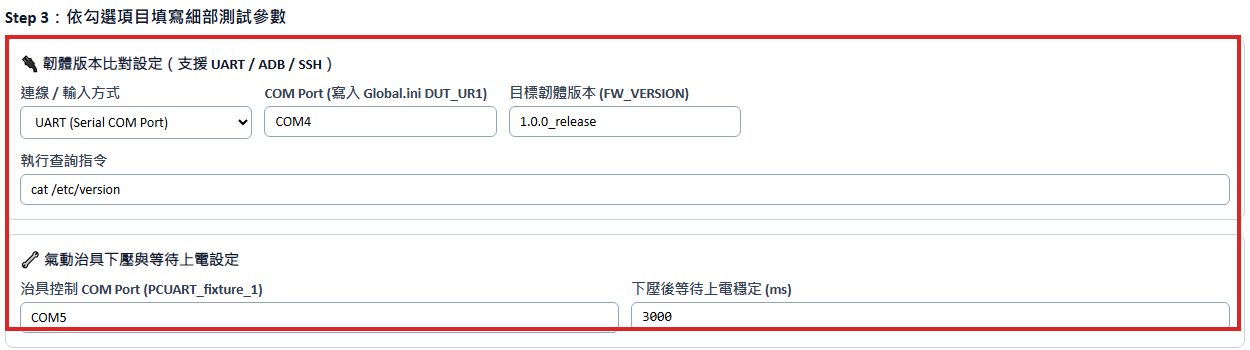
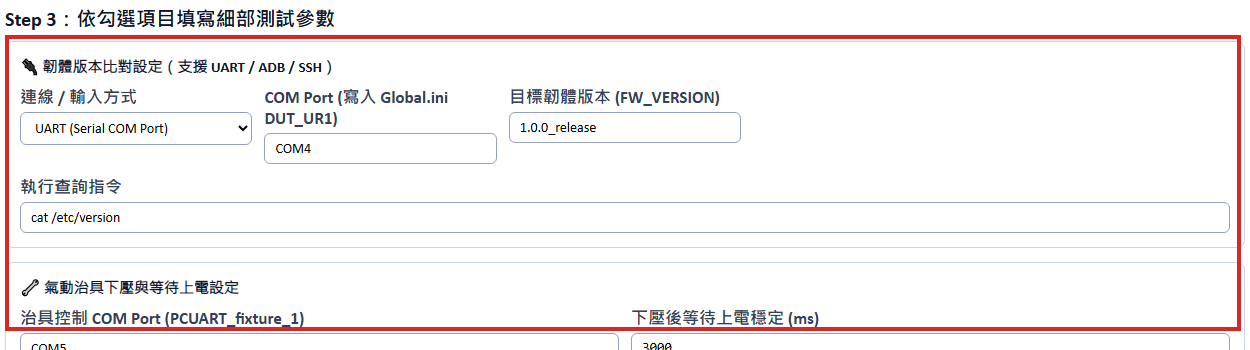
UI: global font scaling, distinct rose-coral theme for Settings card, and 18 single-focus tutorial screenshots

diff --git a/centimani_studio/web/js/flow_guide.js b/centimani_studio/web/js/flow_guide.js
@@ -1,4 +1,4 @@
-// Flow Guide (Scrollable Detailed Tutorial + Flowchart) & System Settings Manager
+// Flow Guide (Scrollable Detailed Tutorial + Single-Focus Red-Box Screenshots) & System Settings Manager
 let APP_SETTINGS = {
   auto_fullscreen: true,
   show_flow_guide: true,
@@ -25,40 +25,40 @@ const FLOW_GUIDE_DATA = {
     btnClass: 'btn-primary-blue',
     btnLabel: '開始使用：腳本健檢 ▶',
     steps: [
-      { num: '①', title: '選取檔案', items: ['單一 Excel 腳本', '或整包資料夾掃描'] },
-      { num: '②', title: '檢查與微調', items: ['看紅黃燈錯誤明細', '線上改站別/ISN/IP/COM'] },
-      { num: '③', title: '補儀器 / 跳轉', items: ['插 NI-6009 / Feasa / RF', '視覺化改 PASS/FAIL 跳轉'] },
-      { num: '④', title: '匯出與簽章', items: ['產出 *_FIXED.xlsx', '寫入 Global.ini 與 Checksum'] }
+      { num: '①', title: '選取單檔或整包', items: ['單一 Excel 體檢', '整包資料夾批次掃描'] },
+      { num: '②', title: '檢視紅黃燈報告', items: ['同類錯誤自動折疊', '自動對比實體 DLL'] },
+      { num: '③', title: '微調與補儀器', items: ['站別/ISN/IP/COM 微調', '插 NI-6009 / Feasa / RF'] },
+      { num: '④', title: '匯出與簽章', items: ['產出 *_FIXED.xlsx', '寫入 INI 與 Checksum'] }
     ],
     detailedSteps: [
       {
-        step: 'Step 1｜選擇「單一 Excel」或「整包專案資料夾」',
-        desc: '進入後點擊上方藍色「📂 選取單一 Excel」開啟既有腳本；若要檢查整個專案目錄內所有站別，可點「📁 掃描整包資料夾」（系統會自動排除 *_FIXED 與 old_ 備份）。',
-        mockup: '<div style="background:#F8FAFC;border:1px solid #CBD5E1;border-radius:6px;padding:8px 10px;font-size:12px;"><span style="background:#DBEAFE;color:#1E3A8A;padding:3px 8px;border-radius:4px;font-weight:700;">📂 選取單一 Excel</span> <span style="background:#E0F2FE;color:#0369A1;padding:3px 8px;border-radius:4px;font-weight:700;margin-left:4px;">📁 掃描整包資料夾</span><div style="margin-top:6px;color:#475569;">📍 目前檔案：<code>D:\\...\\TestFlow.xlsx</code></div></div>',
-        img: '/images/guide_audit_1.png'
+        step: 'Step 1｜「選取單一 Excel」：針對單份測試腳本進行體檢與微調',
+        desc: '適合您只想檢查或修改某一個站的 TestFlow Excel 時使用。點選後會跳出檔案視窗，自動解析 Properties、DUTs、Instrument、所有測試站與 Marco 子工作表，並於下方列出錯誤與警告明細。',
+        img: '/images/guide_audit_1a.png'
       },
       {
-        step: 'Step 2｜檢視體檢報告（紅燈錯誤 / 黃燈人工確認 / 綠燈正常）',
-        desc: '上方橫幅會顯示錯誤總數與目前讀取到的 ISN 條碼位數；下方依測試站分頁顯示健康度，同類型的大量錯誤（如 42 筆缺少 TestID）會自動折疊成單一條目方便檢視。',
-        mockup: '<div style="background:#FEF2F2;border:1px solid #EF4444;border-radius:6px;padding:8px 10px;font-size:12px;color:#7F1D1D;">🔴 檢查結果：抓出 <b>42 個錯誤</b>（同類錯誤已折疊，存檔時將自動補齊 7 碼 TestID）</div>',
+        step: 'Step 2｜「掃描整包資料夾」：一次體檢整個專案目錄內所有站別腳本',
+        desc: '當整個專案資料夾內包含多個站別的 Excel（例如 Download、MB、RF、OQC 分散在不同檔案）時使用。系統會自動遞迴掃描全資料夾、略過 *_FIXED 與 old_ 備份檔，一次列出全專案錯誤總表，並支援「一鍵整包批次修復」（同時自動備份原 System.ini / Global.ini）。',
+        img: '/images/guide_audit_1b.png'
+      },
+      {
+        step: 'Step 3｜檢視紅黃燈體檢報告與折疊明細',
+        desc: '上方橫幅會顯示錯誤總數、需人工確認數量，以及從 DUTs 讀取到的 ISN 條碼位數。若同一站出現多列相同錯誤（例如 42 列缺少第 16 欄 TestID），系統會自動折疊成單一條目，存檔時會一併自動補齊合法 7 碼代碼。',
         img: '/images/guide_audit_2.png'
       },
       {
-        step: 'Step 3｜線上語意微調（站別開關 / ISN 位數 / IP / COM Port）',
-        desc: '點擊「⚙ 微調 DUTs / Instrument / Global.ini」可切換站別啟用開關、批量修改 ISN 位數、調整 PC/DUT IP 與 Ping IP；若要改 UART COM Port 或將 UART 轉為 SSH，點「🔌 通訊設定」。',
-        mockup: '<div style="background:#FFFBEB;border:1px solid #F59E0B;border-radius:6px;padding:8px 10px;font-size:12px;">📋 站別開關 (🟢 啟用 / ⚪ 停用) ｜ 🔢 ISN 位數 [15] ｜ 🌐 網路 IP / Ping ｜ 🔌 儀器掛載</div>',
+        step: 'Step 4｜線上語意微調（站別開關 / ISN 位數 / 網路 IP / 儀器 Mount）',
+        desc: '點擊「⚙ 微調 DUTs / Instrument / Global.ini」即可展開任務導向設定區：支援直接開關測試站（🟢啟用/⚪停用）、一鍵批量修改所有站別 ISN 位數、修改 Ping 目標 IP 與本腳本實際用到的儀器掛載與 COM Port。',
         img: '/images/guide_audit_3.png'
       },
       {
-        step: 'Step 4｜插入儀器測項或調整 PASS/FAIL 跳轉',
-        desc: '需要補測項時點「➕ 插入儀器範本」，可直接快選 NI-6009（32-Pin 接線圖）、FeasaLED（光纖色域）、iPower、電表或 IQxel RF（自動補齊 21/22 步 Marco）；點「🔀 編輯跳轉」可用打勾方式設定 4:P,F 跳轉。',
-        mockup: '<div style="background:#F5F3FF;border:1px solid #8B5CF6;border-radius:6px;padding:8px 10px;font-size:12px;color:#5B21B6;">⚡ 快選：NI-6009 ｜ iPower ｜ 34401A ｜ FeasaLED ｜ IQxel RF（先看介紹頁 → 再進人機）</div>',
+        step: 'Step 5｜插入儀器範本與專屬互動人機（NI-6009 / FeasaLED / IQxel RF）',
+        desc: '點「➕ 插入儀器範本」可從常用快選鈕直接開啟 NI-6009（32-Pin 接線圖）、FeasaLED（光纖通道與色域）、iPower、電表或 IQxel RF（自動補齊 21/22 步 Marco），安全插在 Phase 97 之前並亮黃底標記。',
         img: '/images/guide_audit_4.png'
       },
       {
-        step: 'Step 5｜一鍵修好並匯出（或產出無硬體試跑版）',
-        desc: '確認待匯出異動清單無誤後，點擊「💾 一鍵修好並匯出 (*_FIXED.xlsx)」，系統會自動於原資料夾產出修復檔（異動儲存格亮黃底標記），並同步更新 Global.ini、System.ini 與 64 碼 Checksum。',
-        mockup: '<div style="background:#DCFCE7;border:1px solid #22C55E;border-radius:6px;padding:8px 10px;font-size:12px;color:#14532D;">✅ 已匯出 <code>*_FIXED.xlsx</code> ＋ 寫入 Checksum ＋ 覆檢 0 錯誤</div>',
+        step: 'Step 6｜一鍵修好並匯出 (*_FIXED.xlsx) 或產出「無硬體試跑版」',
+        desc: '確認無誤後，點擊綠色「💾 一鍵修好並匯出 (*_FIXED.xlsx)」會於原資料夾輸出修復後 Excel、寫入 Global.ini 與 64 碼 System.ini Checksum；若要在沒有儀器的辦公室電腦先跑通流程，可點「🧪 無硬體試跑版」自動略過儀器控制步驟。',
         img: '/images/guide_audit_5.png'
       }
     ],
@@ -79,27 +79,33 @@ const FLOW_GUIDE_DATA = {
     ],
     detailedSteps: [
       {
-        step: 'Step 1｜基本資料、ISN 條碼與 SFIS / iPLAS 廠區設定',
-        desc: '填入專案名稱、站別（如 MB / RF）、多工槽位數（1/2/4）與 ISN 碼數規則；若有廠區過站需求，點「🌐 設定 SFIS / iPLAS 開關與廠區 IP」直接從下拉選單選廠區。',
-        mockup: '<div style="background:#F0FDF4;border:1px solid #86EFAC;border-radius:6px;padding:8px 10px;font-size:12px;">專案：<code>PEGA_NEW</code> ｜ 站別：<code>MB</code> ｜ ISN：<code>{ISN,15,[0-9A-Z]}</code> ｜ SFIS：OFF/ON</div>',
-        img: '/images/guide_gen_1.png'
+        step: 'Step 1A｜填寫專案名稱、站別、槽位數與 ISN 條碼規則',
+        desc: '輸入專案代號、站別名稱（如 MB / RF）、多工槽位數（1/2/4 板同步測試），以及掃描條碼的位數與字元規則（系統會即時預覽成標準 {ISN,位數,Pattern} 語法）。',
+        img: '/images/guide_gen_1a.png'
       },
       {
-        step: 'Step 2｜勾選標準流程骨架 ＋ 選用測試儀器',
-        desc: '上方勾選開機流程骨架（CheckRoute、治具下壓、UART 韌體比對、SFIS、Phase 97 收尾）；下方點擊常用儀器快選鈕（NI-6009 / iPower / 電表 / FeasaLED / IQxel）直接進入儀器介紹與人機設定。',
-        mockup: '<div style="background:#EFF6FF;border:1px solid #93C5FD;border-radius:6px;padding:8px 10px;font-size:12px;">① 流程積木打勾 → ② 儀器快選（自動進入介紹頁與人機設定加入清單）</div>',
-        img: '/images/guide_gen_2.png'
+        step: 'Step 1B｜設定 SFIS / iPLAS 開關與各廠區 WebLink IP',
+        desc: '點擊右下角「🌐 設定 SFIS / iPLAS 開關與廠區 IP」，即可直接從下拉選單切換 PTB / PCQ / PSZ 等廠區 SFIS_WebLink 與開啟/關閉 SFIS、iPLAS，匯出時直接寫入 System.ini，無須手動改 INI。',
+        img: '/images/guide_gen_1b.png'
       },
       {
-        step: 'Step 3｜填寫各流程積木細部參數',
-        desc: '檢視已設定完成的 NI-6009 電壓通道摘要（可點按鈕再次修改），並填寫 UART/ADB/SSH 韌體版本指令、Python 腳本路徑或 Ping IP 清單。',
-        mockup: '<div style="background:#F8FAFC;border:1px solid #CBD5E1;border-radius:6px;padding:8px 10px;font-size:12px;">⚡ NI-6009 通道摘要 ｜ 🔌 UART/SSH 韌體版本比對設定</div>',
+        step: 'Step 2A｜勾選「標準測試流程骨架」積木',
+        desc: '上方區塊為純流程骨架（CheckRoute 路由驗證、氣動治具下壓、UART/ADB/SSH 韌體版本比對、SFIS MAC/69PN、Python 呼叫、Ping 測試、Phase 97 安全收尾），可直接用右上角「最小骨架」快速套用。',
+        img: '/images/guide_gen_2a.png'
+      },
+      {
+        step: 'Step 2B｜「測試儀器快選」進入儀器介紹與互動人機設定',
+        desc: '下方整合所有 34 款儀器：點擊常用的「NI-6008/6009」、「iPower」、「34401A 電表」、「Feasa LED」或「IQxel RF」按鈕，會先顯示該儀器特色與安全接線介紹，接著進入專屬人機設定並加入清單。',
+        img: '/images/guide_gen_2b.png'
+      },
+      {
+        step: 'Step 3｜確認已勾選項目之細部參數（韌體指令 / 電壓通道 / Ping IP）',
+        desc: '依 Step 2 勾選項目展開細部設定卡，可在此確認 NI-6009 已設定完成的通道摘要，以及調整 UART/ADB/SSH 韌體比對指令與目標版本號。',
         img: '/images/guide_gen_3.png'
       },
       {
-        step: 'Step 4｜總覽核對並產出完整產線測試包',
-        desc: '確認所有參數後，可選擇「🧪 產生無硬體試跑版 (Dry-Run)」先在辦公室驗證流程，或點擊「🚀 產生產線實機測試包」一次產出 Excel、System.ini、Global.ini 與 Test Item Code。',
-        mockup: '<div style="background:#DCFCE7;border:1px solid #22C55E;border-radius:6px;padding:8px 10px;font-size:12px;">📁 自動輸出至 <code>output_system/&lt;專案_站別&gt;/System/</code> 並彈出資料夾</div>',
+        step: 'Step 4｜總覽核對並產出「產線實機測試包」或「無硬體試跑版」',
+        desc: '核對專案資訊、ISN 與所有積木後，點擊「🚀 產生產線實機測試包」即可一次產出標準 16 欄 Excel、System.ini、Global.ini 與 Test Item Code 表；若尚未接上硬體可先產出 Dry-Run 版測試流程。',
         img: '/images/guide_gen_4.png'
       }
     ],
@@ -120,21 +126,18 @@ const FLOW_GUIDE_DATA = {
     ],
     detailedSteps: [
       {
-        step: 'Step 1｜選取 Log 檔案或貼上錯誤文字',
-        desc: '支援數百 KB 的完整 Centimani Log / CSV 檔案直接選取解析，也可切換「貼上文字」模式貼入終端機片段。',
-        mockup: '<div style="background:#FFFBEB;border:1px solid #FBBF24;border-radius:6px;padding:8px 10px;font-size:12px;">📄 選取 Log 檔 / 貼上文字 ➔ 點擊「🔍 開始分析」</div>',
+        step: 'Step 1｜選擇 Log / CSV 檔案（支援數百 KB 大檔快速解析）',
+        desc: '點擊「📂 點此選擇要分析的 Log / CSV 檔案」載入 Centimani 產線測試紀錄；若只有幾行終端機錯誤訊息，也可切換上方「📋 模式二：貼上錯誤文字」直接貼上分析。',
         img: '/images/guide_diag_1.png'
       },
       {
-        step: 'Step 2｜檢視失敗定位、數值超標差距與 Phase 耗時排行',
-        desc: '系統自動抓出所有實測值與規格上下限並標示超標幅度，同時列出耗時最長的前 5 個 Phase 協助優化測試時間 (CT)。',
-        mockup: '<div style="background:#FEF2F2;border:1px solid #EF4444;border-radius:6px;padding:8px 10px;font-size:12px;color:#7F1D1D;">❌ VCC_3V3 實測 2.91V (規格 3.15~3.45V，低於下限 -0.24V)</div>',
+        step: 'Step 2｜檢視失敗定位、超標幅度與 Phase 耗時瓶頸',
+        desc: '系統會自動列出所有量測數值與規格上下限對比，標註超出幾 V / 幾 dBm，並統計各 Phase 耗時 Top 5 協助找出拖慢 Cycle Time 的瓶頸步驟；重新修改過 Log 後可按右側「🔄 重新解析本檔」。',
         img: '/images/guide_diag_2.png'
       },
       {
-        step: 'Step 3｜複製異常摘要報告回報產線',
-        desc: '點擊「📋 複製異常摘要」，即可將整理好的錯誤測項、根因推測與實測數據貼至 Teams 或郵件。',
-        mockup: '<div style="background:#F0FDF4;border:1px solid #4ADE80;border-radius:6px;padding:8px 10px;font-size:12px;">✔ 已複製純淨異常摘要至剪貼簿</div>',
+        step: 'Step 3｜一鍵複製乾淨異常摘要報告',
+        desc: '點擊右上角「📋 複製測試結論摘要」，自動將專案站別、異常測項、實測數據與推測原因整理成純文字摘要，方便直接貼到 Teams 群組或 Mail 回報。',
         img: '/images/guide_diag_3.png'
       }
     ],
@@ -155,21 +158,18 @@ const FLOW_GUIDE_DATA = {
     ],
     detailedSteps: [
       {
-        step: 'Step 1｜自動載入官方 Test Item Code V2.04（免選檔）',
-        desc: '進入頁面後系統已預設載入最新版 Test Item Code V2.04_20250310.xlsx；僅當未來有更新版本（如 V2.05）時才需點「📂 更換檔案」。',
-        mockup: '<div style="background:#EEF2FF;border:1px solid #818CF8;border-radius:6px;padding:8px 10px;font-size:12px;">📚 目前載入：<code>Test Item Code V2.04_20250310.xlsx</code></div>',
+        step: 'Step 1｜自動載入官方 V2.04 表，輸入關鍵字即時篩選',
+        desc: '系統開機已自動載入最新版 Test Item Code V2.04_20250310.xlsx（共 5,200+ 筆代碼），無需手動選檔。直接在搜尋框輸入中文（如「電壓」「LED」）、英文或 7 碼代碼即可搜尋，並建議勾選「僅顯示通用碼」。',
         img: '/images/guide_tic_1.png'
       },
       {
-        step: 'Step 2｜輸入中英文關鍵字或 Error Code 即時搜尋',
-        desc: '在搜尋框輸入如「電壓」、「LED」、「UART」、「BRPW024」即可即時篩選，建議勾選「僅顯示通用碼」優先採用跨機種標準碼。',
-        mockup: '<div style="background:#F8FAFC;border:1px solid #CBD5E1;border-radius:6px;padding:8px 10px;font-size:12px;">🔍 [ 電壓 ] ☑ 僅顯示通用碼 ➔ <code>BRPW024</code> / <code>BRPW033</code></div>',
+        step: 'Step 2｜在左側搜尋結果選定目標 TestID / Error Code',
+        desc: '左側清單會列出符合條件的代碼與中英文說明，點擊任一筆即可選中；也可直接點「雙欄複製」將「Description + Tab + TestID」直接貼入 Excel。',
         img: '/images/guide_tic_2.png'
       },
       {
-        step: 'Step 3｜一鍵複製或直接套用至母體 / 健檢腳本',
-        desc: '找到目標代碼後可直接複製（Description + TestID），或直接套用到目前「母體產生器」積木與「腳本健檢」載入中的工作表列。',
-        mockup: '<div style="background:#DCFCE7;border:1px solid #4ADE80;border-radius:6px;padding:8px 10px;font-size:12px;">📋 複製代碼 ｜ ✨ 套用至現有 Excel 指定列</div>',
+        step: 'Step 3｜在右側直接套用至「母體積木」或「現有 Excel」',
+        desc: '選定左側代碼後，可於右側切換「方案一：套用至母體積木」或「方案二：寫入現有 Excel」，點擊步驟旁的「套用」按鈕即可將合法 7 碼代碼直接寫入測試步驟。',
         img: '/images/guide_tic_3.png'
       }
     ],
@@ -181,8 +181,10 @@ function applyLoadedSettings(s) {
   if (!s) return;
   APP_SETTINGS = Object.assign({}, APP_SETTINGS, s);
   try { localStorage.setItem('centimani_app_settings', JSON.stringify(APP_SETTINGS)); } catch (e) {}
-  if (APP_SETTINGS.intro_font_size && typeof setIntroFontSize === 'function') {
-    setIntroFontSize(parseInt(APP_SETTINGS.intro_font_size, 10) || 15);
+  const fs = parseInt(APP_SETTINGS.intro_font_size, 10) || 15;
+  document.body.style.fontSize = fs + 'px';
+  if (typeof setIntroFontSize === 'function') {
+    setIntroFontSize(fs);
   }
   const chkTic = document.getElementById('chkTicGenericOnly');
   if (chkTic) chkTic.checked = !!APP_SETTINGS.tic_generic_only;
@@ -244,6 +246,7 @@ function renderFlowGuidePage(tab) {
   const d = FLOW_GUIDE_DATA[tab];
   if (!d) { switchTab(tab); return; }
 
+  const fs = parseInt(APP_SETTINGS.intro_font_size || 15, 10);
   const stepsHtml = d.steps.map((st, idx) => `
     <div style="display:flex; align-items:stretch; flex:1; min-width:170px; gap:8px;">
       <div style="flex:1; background:#FFFFFF; border:1.5px solid ${d.themeBorder}; border-radius:10px; padding:12px 14px; box-shadow:0 2px 6px rgba(15,23,42,0.06);">
@@ -259,17 +262,15 @@ function renderFlowGuidePage(tab) {
     </div>
   `).join('');
 
-  const detailCardsHtml = (d.detailedSteps || []).map((ds, i) => `
+  const detailCardsHtml = (d.detailedSteps || []).map(ds => `
     <div style="background:#F8FAFC; border:1px solid #CBD5E1; border-left:4px solid ${d.themeBorder}; border-radius:8px; padding:14px 16px;">
-      <div style="font-weight:700; font-size:15px; color:#0F172A; margin-bottom:6px;">${ds.step}</div>
-      <div style="font-size:13.5px; color:#334155; line-height:1.65; margin-bottom:10px;">${ds.desc}</div>
+      <div style="font-weight:700; font-size:${fs + 1}px; color:#0F172A; margin-bottom:6px;">${ds.step}</div>
+      <div class="flow-guide-desc" style="font-size:${fs}px; color:#334155; line-height:1.65; margin-bottom:10px;">${ds.desc}</div>
       <div style="text-align:center; background:#FFFFFF; border:1px solid #E2E8F0; border-radius:6px; padding:8px;">
         <img src="${ds.img}" alt="${ds.step}"
-             style="max-width:100%; max-height:420px; border-radius:6px; border:1px solid #CBD5E1; cursor:zoom-in;"
+             style="max-width:100%; max-height:380px; border-radius:6px; border:1px solid #CBD5E1; cursor:zoom-in;"
              onclick="window.open(this.src, '_blank')"
-             title="點擊開啟原尺寸大圖"
-             onerror="this.style.display='none'; this.nextElementSibling.style.display='block';">
-        <div style="display:none; text-align:left;">${ds.mockup}</div>
+             title="點擊開啟原尺寸大圖">
       </div>
     </div>
   `).join('');
@@ -292,13 +293,13 @@ function renderFlowGuidePage(tab) {
         ${stepsHtml}
       </div>
 
-      <div style="background:#F8FAFC; border:1px solid #CBD5E1; border-radius:8px; padding:10px 14px; font-size:13.5px; color:#1E293B; margin-bottom:14px;">
+      <div style="background:#F8FAFC; border:1px solid #CBD5E1; border-radius:8px; padding:10px 14px; font-size:${fs - 1}px; color:#1E293B; margin-bottom:14px;">
         💡 <b>說明：</b>${d.tip}
       </div>
 
       <div style="margin-bottom:16px;">
-        <div style="font-weight:700; font-size:14.5px; color:#0F172A; margin-bottom:10px;">📖 詳細操作步驟與畫面對照教學（向下捲動閱讀，支援放入實機截圖至 IMAGES/）</div>
-        <div style="display:flex; flex-direction:column; gap:10px;">
+        <div style="font-weight:700; font-size:15px; color:#0F172A; margin-bottom:10px;">📖 詳細操作步驟與單項紅框教學（共 ${d.detailedSteps.length} 步，向下捲動閱讀）</div>
+        <div style="display:flex; flex-direction:column; gap:12px;">
           ${detailCardsHtml}
         </div>
       </div>
@@ -341,11 +342,11 @@ function renderSettingsPanel() {
   const box = document.getElementById('panelSettings');
   if (!box) return;
   box.innerHTML = `
-    <div style="background:#FFFFFF; border:1.5px solid #94A3B8; border-radius:12px; padding:20px 24px; max-width:860px;">
+    <div style="background:#FFFFFF; border:1.5px solid #E11D48; border-radius:12px; padding:20px 24px; max-width:860px;">
       <div style="display:flex; justify-content:space-between; align-items:center; flex-wrap:wrap; gap:10px; padding-bottom:12px; border-bottom:1px solid #E2E8F0; margin-bottom:16px;">
         <div>
           <h2 style="margin:0; font-size:19px; color:#0F172A;">⚙ 系統與環境設定 (Preferences)</h2>
-          <div style="font-size:13px; color:#64748B; margin-top:2px;">勾選後即時保存至 config.json，亦可按下方確認鈕完成儲存</div>
+          <div style="font-size:13px; color:#64748B; margin-top:2px;">勾選後即時保存至 config.json，字體大小會即時套用至全站</div>
         </div>
         <div style="display:flex; align-items:center; gap:8px;">
           <span id="settingsSaveStatus" style="display:none; padding:4px 10px; border-radius:6px; border:1px solid #4ADE80; font-size:12.5px; font-weight:700;"></span>
@@ -353,7 +354,7 @@ function renderSettingsPanel() {
         </div>
       </div>
 
-      <div style="display:flex; flex-direction:column; gap:12px; font-size:14px;">
+      <div style="display:flex; flex-direction:column; gap:12px;">
         <label style="display:flex; align-items:center; gap:10px; padding:10px 14px; background:#F8FAFC; border:1px solid #CBD5E1; border-radius:8px; cursor:pointer;">
           <input type="checkbox" id="setChkFullscreen" ${s.auto_fullscreen ? 'checked' : ''} onchange="saveAppSettings({auto_fullscreen:this.checked})" style="width:18px; height:18px;">
           <div>
@@ -389,8 +390,8 @@ function renderSettingsPanel() {
 
         <div style="display:flex; align-items:center; justify-content:space-between; flex-wrap:wrap; gap:10px; padding:10px 14px; background:#F8FAFC; border:1px solid #CBD5E1; border-radius:8px;">
           <div>
-            <div style="font-weight:700; color:#0F172A;">儀器介紹與人機頁預設字體大小</div>
-            <div style="font-size:12.5px; color:#64748B;">調整儀器規格與說明文字的預設閱讀字級</div>
+            <div style="font-weight:700; color:#0F172A;">全站介面與教學說明預設字體大小</div>
+            <div style="font-size:12.5px; color:#64748B;">切換後立即放大 / 縮小全站文字、流程教學與儀器介紹頁</div>
           </div>
           <div style="display:inline-flex; gap:6px;">
             <button onclick="saveAppSettings({intro_font_size:13}); applyLoadedSettings({intro_font_size:13}); renderSettingsPanel();" class="btn" style="padding:4px 12px; font-size:12.5px; ${fs===13?'background:#2563EB;color:#fff;border-color:#1D4ED8;':''}">小 (13px)</button>

diff --git a/centimani_studio/web/js/inst_hmi.js b/centimani_studio/web/js/inst_hmi.js
@@ -255,7 +255,8 @@ function setIntroFontSize(sz) {
       }
     });
   });
-  document.querySelectorAll('.intro-scalable-text').forEach(el => {
+  document.body.style.fontSize = valid + 'px';
+  document.querySelectorAll('.intro-scalable-text, .flow-guide-desc').forEach(el => {
     el.style.fontSize = valid + 'px';
   });
   document.querySelectorAll('.intro-spec-table').forEach(el => {

diff --git a/centimani_studio/web/css/app.css b/centimani_studio/web/css/app.css
@@ -1052,6 +1052,6 @@ button:not(:disabled):hover {
 
 .acc-card[data-theme="slate"].active,
 .acc-card[data-theme="slate"]:hover {
-  background: linear-gradient(145deg, #CCFBF1 0%, #F0FDFA 100%);
-  border-color: #0D9488;
+  background: linear-gradient(145deg, #FFE4E6 0%, #FFF1F2 100%);
+  border-color: #E11D48;
 }
